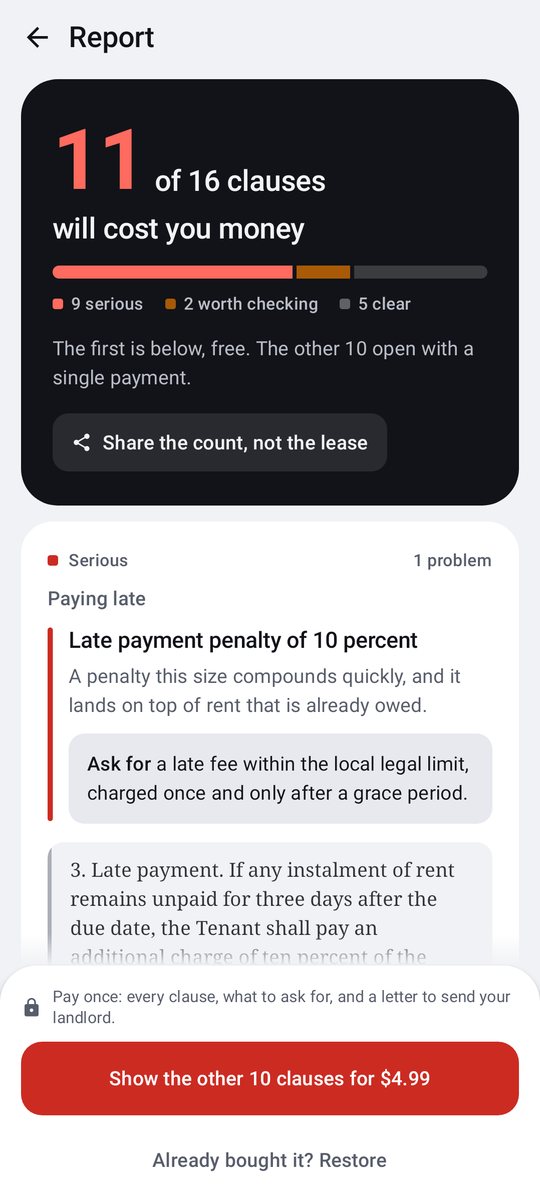
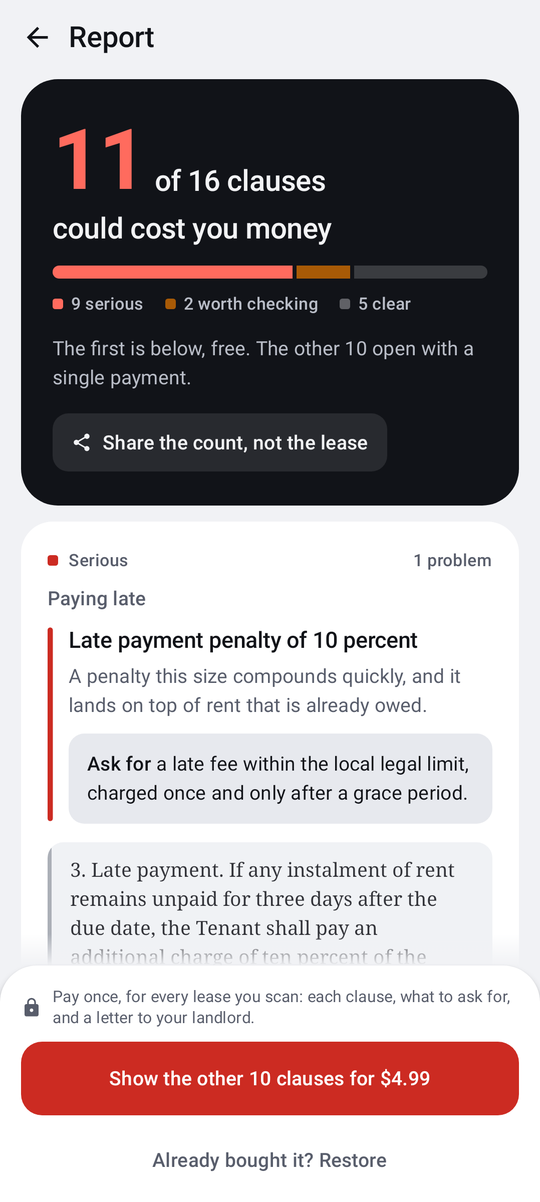
Correct figures in the docs

diff --git a/README.md b/README.md
@@ -6,8 +6,10 @@ Built by a student for the Next Gen Award at RevenueCat Shipaton 2026.
 
 Everything that touches the lease runs on the device. No account and no upload. Open the
 PDF your landlord sent, photograph a paper copy, or paste the text: reading, OCR and the
-scan all happen on the phone. The only network traffic is RevenueCat's, to show the price
-and take the payment, and it never carries a word of the lease.
+scan all happen on the phone, and the lease never goes over the network. The app talks to
+RevenueCat to show the price and take the payment, and Google's ML Kit text recognition
+sends Google its usage diagnostics, which Google's disclosure lists as device, app and
+performance details, not the text it reads.
 
 <p>
   <img src="docs/start.png" alt="Start screen. The promise, then three ways in: open a PDF, photograph the pages, or paste the text, with a sample lease to try." width="31%">
@@ -57,7 +59,9 @@ the change to ask for on each, and a letter to the landlord that asks for all of
   otherwise slide a subscription into that slot and quietly offer a recurring charge to
   somebody reading one lease. `chooseOffer` picks `LIFETIME` by type and has no fallback,
   because selling the wrong thing is worse than selling nothing.
-- `Billing.restore()` implements restore on reinstall, and it actually works after one.
+- Restore on reinstall needs no tap. `Billing.start()` gives RevenueCat an app user id
+  derived from `ANDROID_ID`, so the first `Billing.refresh()` after a reinstall finds the
+  purchase, and `Billing.restore()` backs the Restore button for anything that path misses.
   There are no accounts here, so the purchase is keyed to a SHA-256 hash of `ANDROID_ID`,
   which is scoped to the signing key and outlives the app's own storage. Automatic device
   identifier collection is off, and what reaches RevenueCat is a salted hash, never the raw
@@ -107,11 +111,11 @@ Three things are given away on purpose, and each one costs a sale in the short r
   two ever drift. A paywall in front of an unexplained judgement is the thing a reader
   is right to distrust.
 - **The price, before the work.** It is on the first screen, read from the offering,
-  next to the line saying the text never leaves the phone. Learning the cost only after
+  in the line under the sample lease that says the scan and its count are free. Learning the cost only after
   reading a lease into the field is the shape of an ambush even when the number is small.
 
 What is left to sell is the part that took the work: which clause, what it says, and why
-it costs money. One payment, no subscription, because a tenant signs a lease roughly
+it costs money. One payment, no subscription, because a tenant signs a lease about
 once a year and billing them monthly for that would be the actual dark pattern.
 
 ## Why it works the way it does
@@ -129,11 +133,11 @@ fourteen of twenty, and a true-positive margin at least three times the benign m
 | | Embeddings (Universal Sentence Encoder) | Rules |
 |---|---|---|
 | Costly clauses identified | **8 / 20** | **20 / 20** |
-| Benign clauses left alone | 3 confident false flags | **10 / 10** |
+| Benign clauses left alone | 2 of 10 scored above the median correct match | **10 / 10** |
 
 The interesting part is not that it scored badly. It is *how*. A benign sentence about
-paying your own electricity bill produced the second-highest confidence score in the
-entire set, higher than fourteen genuinely costly clauses. The failure mode was not
+paying your own electricity bill scored higher than sixteen of the twenty genuinely
+costly clauses, and higher than any other harmless one. The failure mode was not
 missing bad clauses; it was confidently flagging harmless ones, which is worse than
 saying nothing when the reader is trying to decide whether to sign.
 
@@ -226,8 +230,8 @@ A lease usually arrives as a PDF or on paper, so those come first.
   deleted as soon as reading finishes.
 - **Photograph it**, a page at a time. The camera app hands the picture back through a
   `FileProvider`, so Redline asks for no camera permission.
-- **Open with Redline** or **share to Redline** from Gmail, WhatsApp or Files, for a PDF,
-  an image or plain text (`ACTION_VIEW`, `ACTION_SEND`).
+- **Open with Redline** on a PDF (`ACTION_VIEW`), or **share to Redline** from Gmail,
+  WhatsApp or Files, for a PDF, an image or plain text (`ACTION_SEND`).
 - Paste it, or select text anywhere in Android and pick Redline (`ACTION_PROCESS_TEXT`).
 - Or tap "Try it on a sample lease".
 
@@ -264,8 +268,11 @@ Every figure was read in the statute or on an official page, cited beside it in
 [`Places.kt`](app/src/main/java/dev/kesav/redline/Places.kt). What could only be
 confirmed second-hand was left out rather than guessed: England's entry notice, and the
 late-fee percentages Californian and Massachusetts courts tend to accept. Anywhere else,
-the general wording stays. `PlacesTest` pins each moved threshold with a clause on either
-side of it.
+the general wording stays. `PlacesTest` pins the moved thresholds with one clause each: a
+two-month deposit (flagged in California, New York, Massachusetts and England, not in
+Texas, India or with no place chosen), a deposit returned in twenty days (late in New
+York, not in California or with no place), and a five percent late fee (flagged by
+default, not in Texas).
 
 After purchase, **Ask the landlord for these changes** opens the letter before it goes:
 one line per flagged clause with a tick box (serious ones start ticked), and underneath,
@@ -292,8 +299,8 @@ their quantities: "ten percent", "ninety days", "two thousand rupees". A rule ca
 compare anything until those are integers.
 
 One bug worth naming, because the test that pins it is more interesting than the fix. On
-*"six months notice, failing which three months rent is payable and adjusted against the
-deposit"*, the deposit rule read the first months figure it found and announced a
+*"six months notice in writing, failing which three months rent shall be payable as
+liquidated damages and shall be adjusted against the deposit"*, the deposit rule read the first months figure it found and announced a
 six-month deposit that did not exist. Quantities now have to sit beside the thing they
 describe.
 
@@ -302,13 +309,15 @@ describe.
 Not a checklist item here, because the people most likely to be handed a bad lease are
 not always the people best served by an app.
 
-- Every finding card is one merged announcement rather than five fragments, and it
+- Every finding card is one merged announcement rather than a string of fragments, and it
   includes the clause text itself. Reading out "costly risk, deposit equal to ten months
   rent" and then withholding the sentence would hand a screen reader user the headline
   and keep the evidence.
-- A locked finding announces that it is locked and why, so the severity and the count
-  are available without paying, exactly as they are on screen.
-- Severity carries a word, "Serious" or "Worth checking", not only a colour.
+- The locked list is one spoken sentence: each subject, how many clauses sit under it,
+  and whether they are serious, so the count and the severity reach a screen reader
+  before paying, as they reach the eye.
+- On every open card severity carries a word, "Serious" or "Worth checking", not only a
+  colour.
 - Touch targets are at least 48dp. The editor scrolls and lifts above the keyboard, so
   the Scan button is reachable at 200% font scale.
 - The reveal animation reads `ANIMATOR_DURATION_SCALE` and does nothing when animations

diff --git a/FUTURE.md b/FUTURE.md
@@ -14,16 +14,18 @@ a bundled file would let the bank update without shipping an APK, and would let 
 contribute a rule without writing Kotlin.
 
 **More places.** Six are in (`Places.kt`): California, New York, Massachusetts, Texas,
-England and India, each figure quoted from its statute. More US states are the obvious
-next step, and India would be better served state by state, since the Model Tenancy Act is
-a proposal that Maharashtra, Karnataka and Delhi have not adopted.
+England and India, each figure read in the statute or on an official page and cited in the
+file. More US states are the obvious next step, and India would be better served state by
+state, since the Model Tenancy Act is a proposal that Maharashtra, Karnataka and Delhi
+have not adopted.
 
-Places also need rules of their own, not only limits. "A non-refundable pet fee of $300"
-is unlawful in California, which bars calling any security non-refundable (Civil Code
+Places also need rules of their own, not only limits. A non-refundable pet fee is
+unlawful in California, which bars calling any security non-refundable (Civil Code
 1950.5(n)), and in New York, which allows no fee at the start of a tenancy beyond a
-background and credit check (Real Property Law 238-a). The same sentence is ordinary in
-Texas and Illinois, and `intl.tsv` carries all four. A rule that runs only once the reader
-has named one of those places would catch it without flagging the other two.
+background and credit check (Real Property Law 238-a). In Texas the same fee is ordinary.
+`intl.tsv` carries one sentence under New York (u17, costly) and Texas (u28, benign), and a
+$500 non-refundable pet deposit under California (u05). A rule that runs only once the
+reader has named one of those places would catch it without flagging Texas.
 
 **Deadline reminders.** A lease that renews itself unless notice is given sixty days
 before the end already trips the auto-renewal rule. Reading the end date and the notice
@@ -35,13 +37,13 @@ in Hindi or Tamil would need its own number words, headings and rules.
 
 ## Built since this list was first written
 
-**Reading PDFs and paper.** The original entry below said no: Android could only
-rasterise PDF pages, and the libraries that extract text were heavy or AGPL. Android 15
-added a text layer to `PdfRenderer`, which covers digital PDFs on current phones. Scanned
-PDFs, older phones and photographs of paper go through ML Kit's bundled text recognition,
-which is on-device and Apache licensed. The column and hyphen problems were real, so
-imported pages are rebuilt into paragraphs and a test holds a PDF to the same findings as
-the same lease pasted.
+**Reading PDFs and paper.** The original entry below said no: Android could only rasterise
+PDF pages, and the libraries that extract text were heavy or AGPL. Android 15 added a text
+layer to `PdfRenderer`, which covers digital PDFs on current phones. Scanned PDFs, older
+phones and photographs of paper go through ML Kit's bundled text recognition, which runs
+on the device and is distributed under Google's ML Kit Terms of Service. The column and
+hyphen problems were real, so imported pages are rebuilt into paragraphs and a test holds
+a PDF to the same findings as the same lease pasted.
 
 **Export, then a letter.** The report goes out through the share sheet with each clause
 quoted. Every rule now also says what to ask for, and a separate letter asks the landlord
@@ -55,7 +57,8 @@ on-device OCR covers the same ground without either.
 
 **An account system.** Nothing here needs to know who you are. A lease is a private
 document, and the strongest privacy promise is one the code enforces: the lease never
-touches the network. The only traffic is RevenueCat's, for the price and the purchase.
+touches the network. The app's own traffic is RevenueCat's, for the price and the
+purchase, and the ML Kit library sends Google its usage diagnostics.
 
 **Cloud analysis or a language model.** It would cost money per scan, require sending
 somebody's lease to a server, and produce answers nobody can check. An on-device model

diff --git a/eval/README.md b/eval/README.md
@@ -16,8 +16,9 @@ archetypes could not be shaped around the answers. Git history shows the order.
 
 Two conditions were fixed before the first run:
 
-1. Top-1 category correct on at least **14 of the 20** costly clauses. Chance is about
-   0.83%, so 14 cannot happen by luck.
+1. Top-1 category correct on at least **14 of the 20** costly clauses. Chance is 10% per
+   clause, since there are ten categories, so 14 or more of 20 by luck has a probability
+   of about 2 in 10 billion.
 2. Median true-positive margin at least **3x** the 90th-percentile benign margin.
 
 Margin means the gap between the winning archetype and the best archetype from a
@@ -50,9 +51,9 @@ so the ratio got worse, not better.
 - **repairs** behaved as a sink, absorbing early termination, rent increase, society
   charges and restoration clauses. A nearest-neighbour bank develops attractors.
 - `b07` is a plain, harmless sentence about paying rent by bank transfer. Centered, it
-  scored a margin of 0.1610, higher than fourteen of the twenty genuinely costly clauses.
-  `b08`, about paying your own electricity bill, scored 0.1759, the second highest margin
-  in the whole set.
+  scored a margin of 0.1610, higher than fifteen of the twenty genuinely costly clauses.
+  `b08`, about paying your own electricity bill, scored 0.1759, the highest benign margin
+  in the set and higher than sixteen costly clauses.
 
 That last pair is the important one. The failure is not that costly clauses get missed.
 It is that harmless ones get flagged **confidently**, and a user reading a confident
@@ -165,7 +166,8 @@ Where each row came from is in its `origin` and `source` columns:
 
 ### A whole US lease
 
-`us-lease.txt` is a sixteen-clause lease written after the rules, in the wording US leases
+`us-lease.txt` is a lease of fourteen numbered clauses (sixteen blocks as the splitter
+counts them, with the title and the opening paragraph), written after the rules, in the wording US leases
 use rather than the wording of this set. Nine of its clauses cost the tenant something. On
 the first run the rules found six of those nine for the right reason. They read the renewal
 clause ("renews automatically for a further twelve months unless the Tenant gives written
@@ -237,7 +239,7 @@ eleven-month term became a notice period.
 Every trigger now starts on a word boundary, and every rule that reads a number takes the
 one nearest a required anchor word, within a reach set per rule. A late fee has to sit
 within forty characters of *charge*, *fee*, *penalty* or *interest*; a notice period
-within forty of *notice*. [`AdversarialTest`](../app/src/test/java/dev/kesav/redline/AdversarialTest.kt)
+within twenty-four of *notice*. [`AdversarialTest`](../app/src/test/java/dev/kesav/redline/AdversarialTest.kt)
 holds the clauses built to break it, including one with two percentages where the late
 fee must come out as 4 and not 10, beside six plain clauses that must still fire. The
 frozen corpus scores the same 20 of 20 and 10 of 10 afterwards, which says less about
